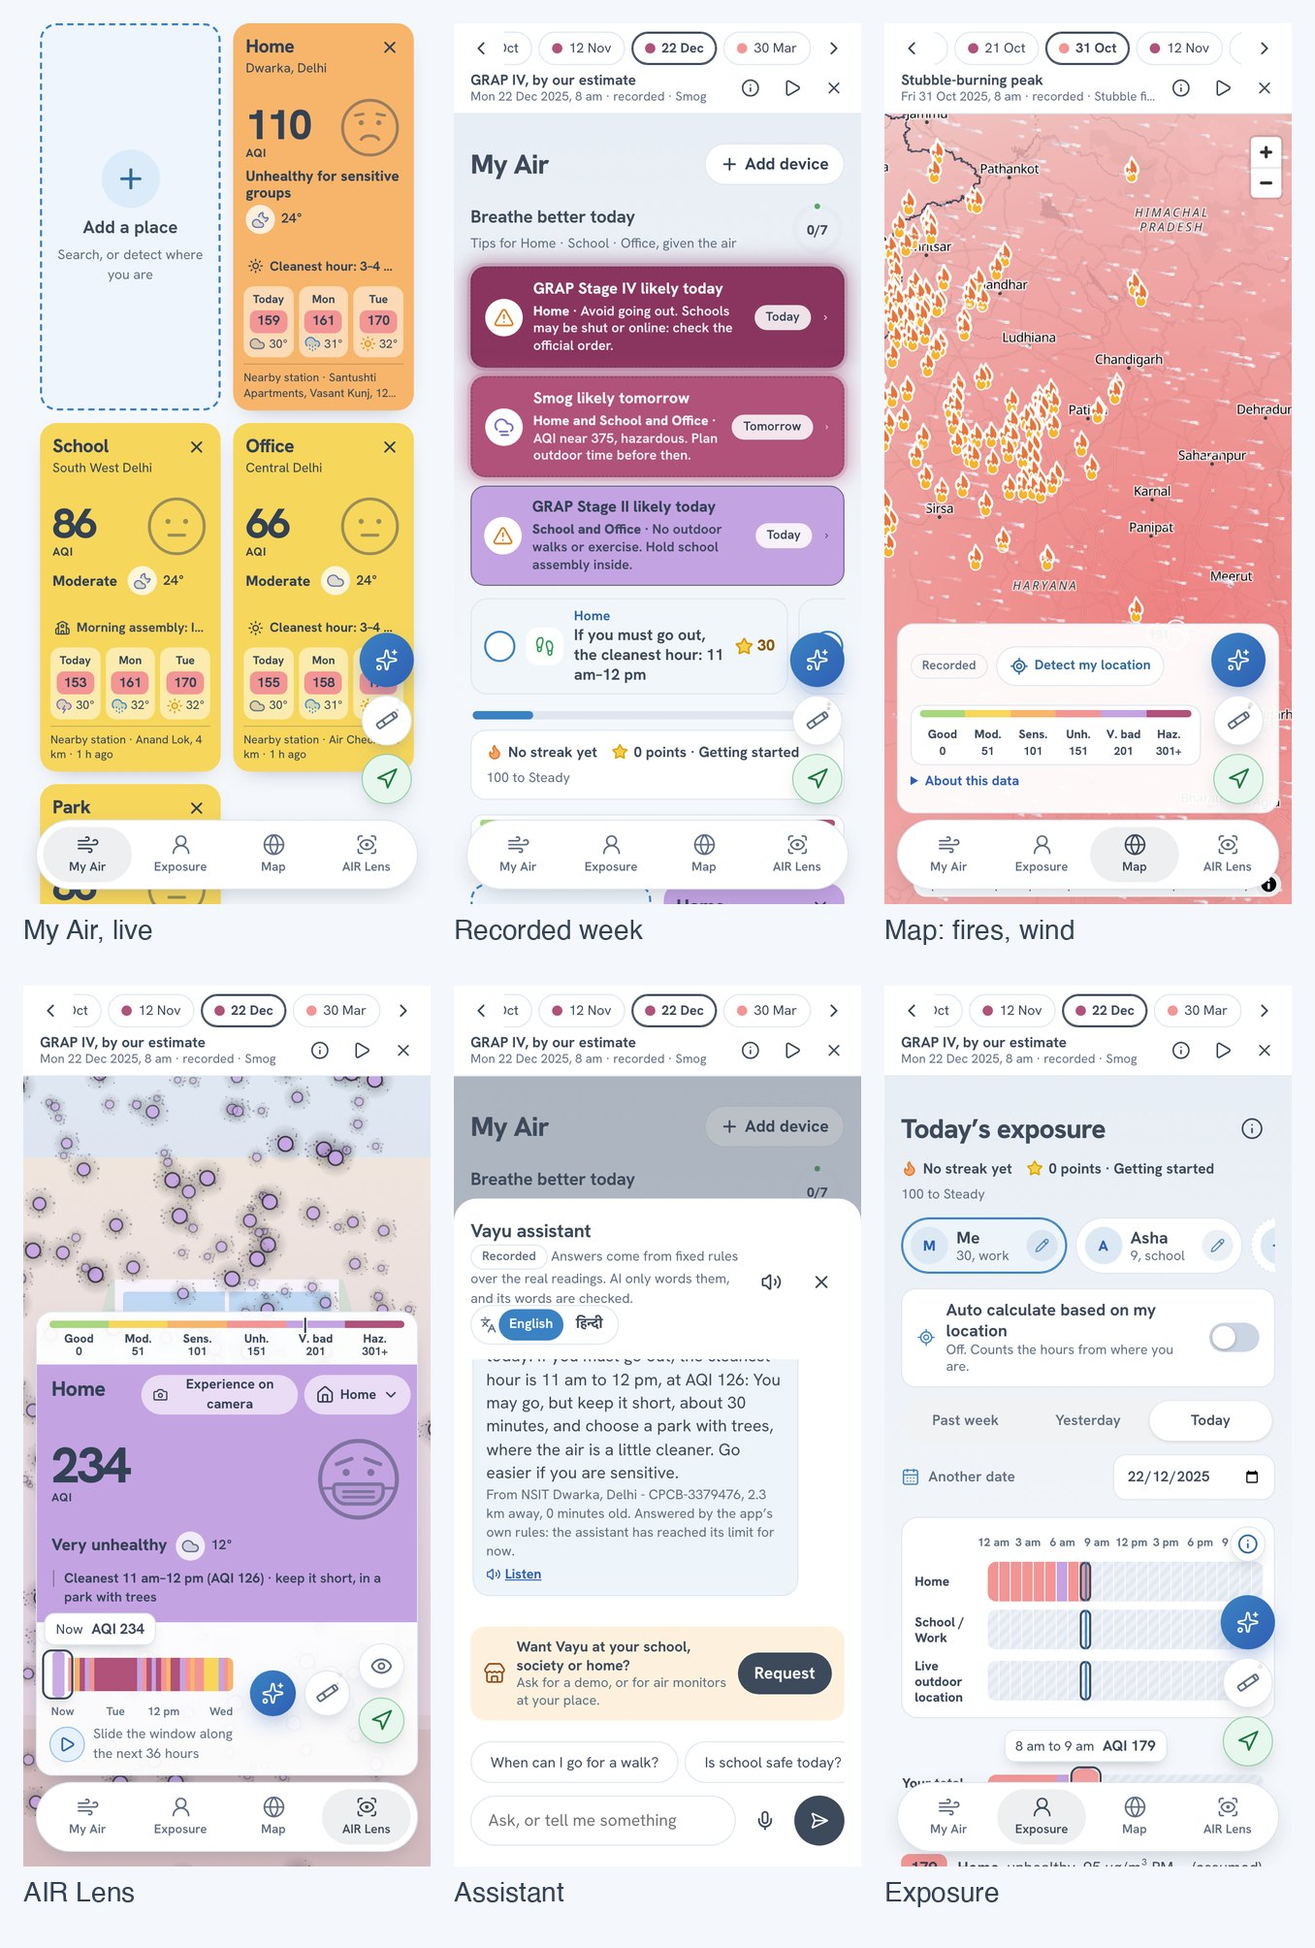
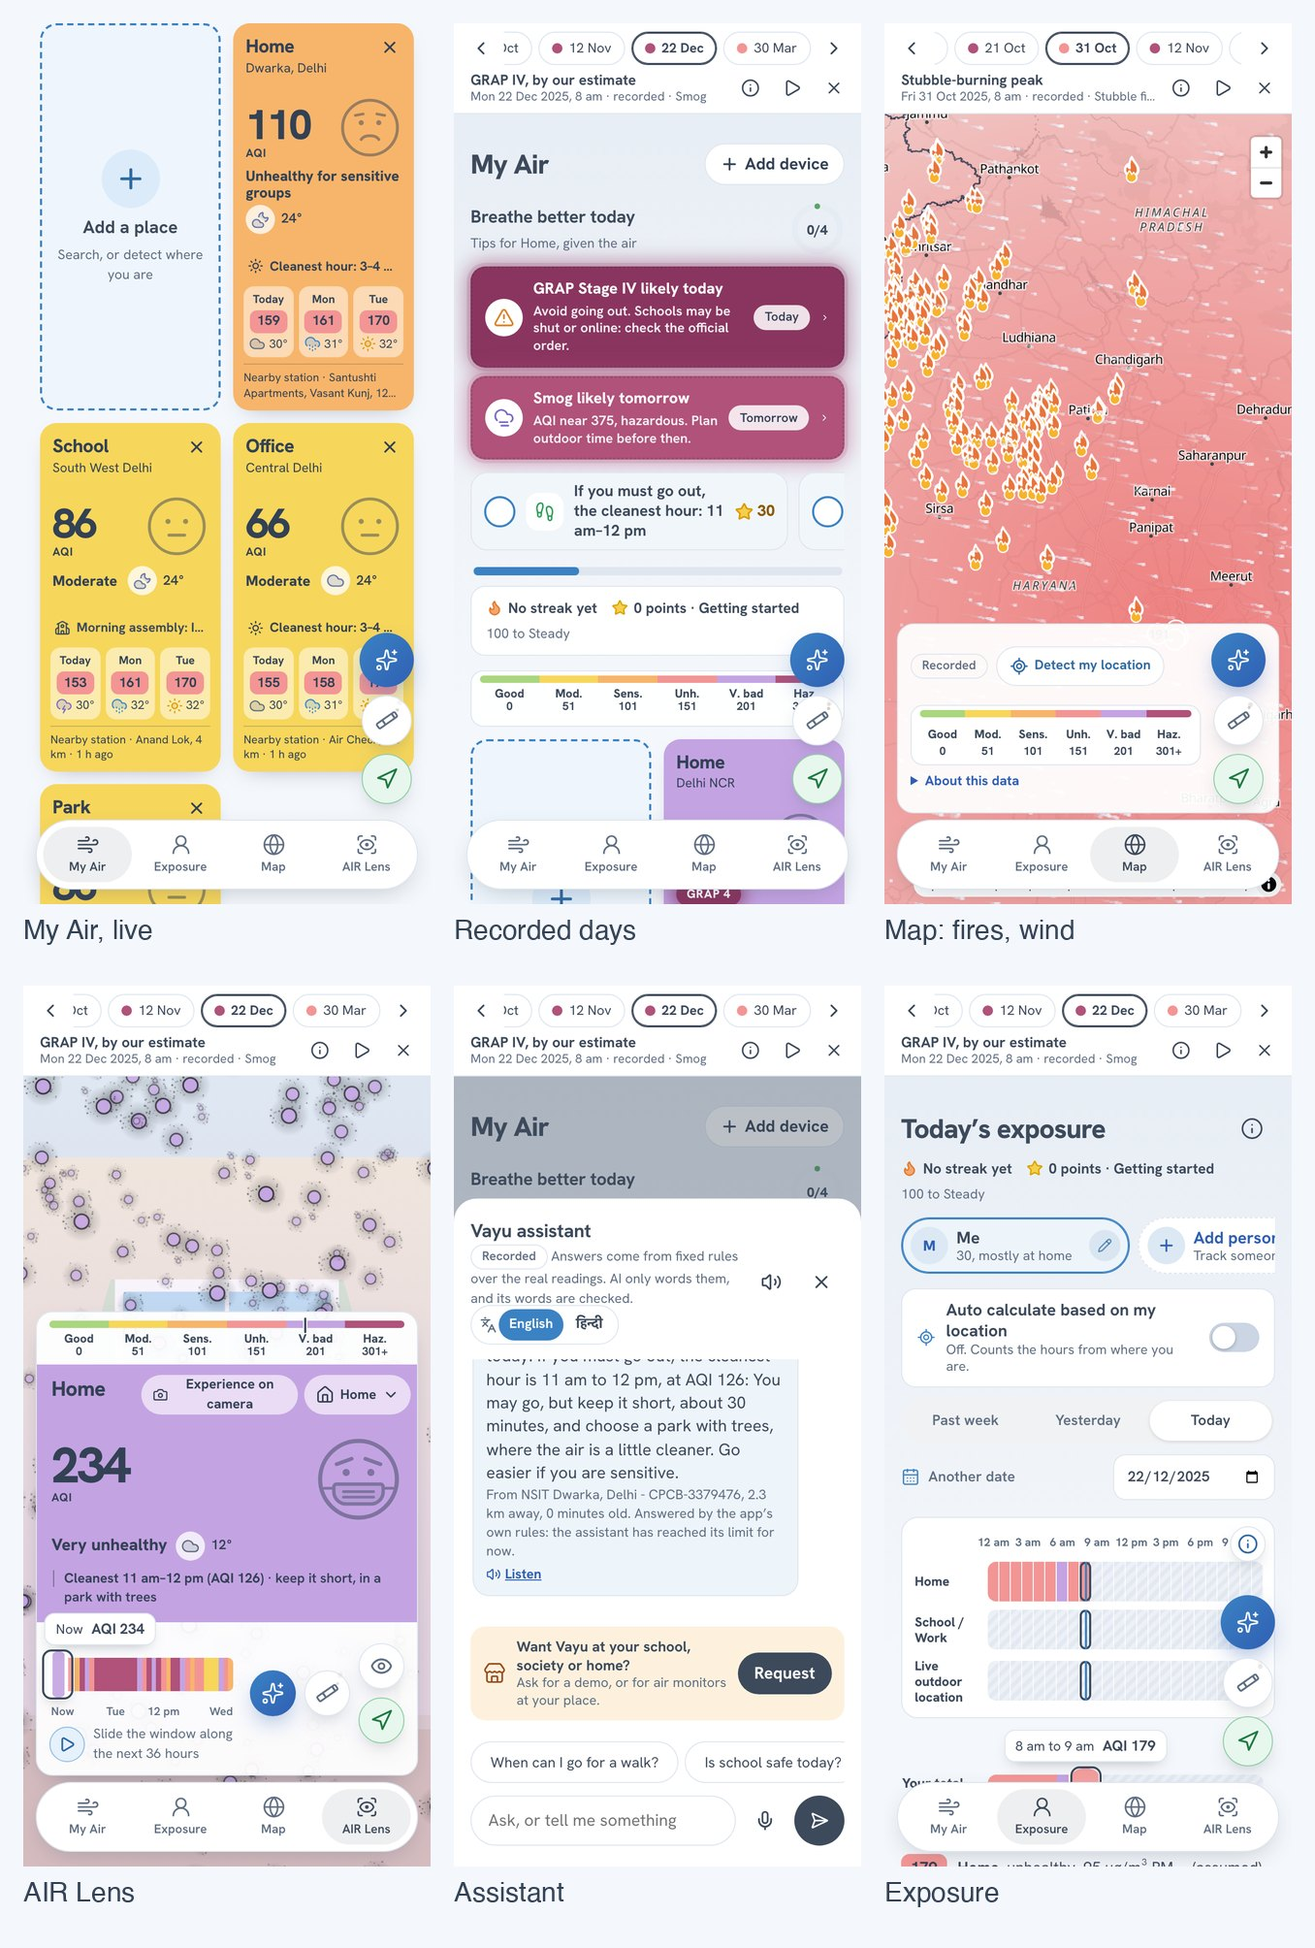
Recorded days: two places (Home and a Park) and one person, no school or office; called recorded days, not a week; screenshots retaken

diff --git a/apps/web/src/week/storage.ts b/apps/web/src/week/storage.ts
@@ -3,7 +3,7 @@ import { pinId, type Pin } from '../data/pins';
 import { saveHousehold, type Household } from '../exposure/people';
 import { sampleSpotsFor, saveSpots } from '../exposure/spots';
 
-/** A storage that lives only as long as the page: what the recorded week keeps, so the person's own data is untouched. */
+/** A storage that lives only as long as the page: what the recorded days keeps, so the person's own data is untouched. */
 export class MemoryStorage implements Storage {
   private readonly items = new Map<string, string>();
   get length(): number {
@@ -26,20 +26,22 @@ export class MemoryStorage implements Storage {
   }
 }
 
-/** The four places a household starts with in the recording: home, school, work and a park. */
-export const WEEK_PINS: readonly Pin[] = DEMO_PLACES.map((place) => ({
+/**
+ * The two places the recording starts with: home, and a park to walk in. No school and no office, so what each day
+ * shows is about the air itself: the GRAP stage, the fires, the rain, the wind, the best hour for a walk, the windows.
+ */
+export const WEEK_PINS: readonly Pin[] = DEMO_PLACES.filter(
+  (place) => place.name === 'Home' || place.name === 'Park',
+).map((place) => ({
   id: pinId(place.lat, place.lng),
   name: place.name,
   lat: place.lat,
   lng: place.lng,
 }));
 
-/** The household of the recording: the phone's owner, who works, and a child at school. */
+/** The household of the recording: one person, who is mostly at home. */
 export const WEEK_HOUSEHOLD: Household = {
-  people: [
-    { id: 'me', name: 'Me', age: 30, day: 'work' },
-    { id: 'asha', name: 'Asha', age: 9, day: 'school' },
-  ],
+  people: [{ id: 'me', name: 'Me', age: 30, day: 'none' }],
   current: 'me',
 };
 
@@ -52,7 +54,6 @@ export function installMemoryStorage(): Storage {
   const storage = new MemoryStorage();
   Object.defineProperty(window, 'localStorage', { value: storage, configurable: true });
   saveHousehold(storage, WEEK_HOUSEHOLD);
-  saveSpots(storage, 'me', sampleSpotsFor('adult'));
-  saveSpots(storage, 'asha', sampleSpotsFor('child'));
+  saveSpots(storage, 'me', sampleSpotsFor('senior'));
   return storage;
 }

diff --git a/apps/web/src/week/WeekBar.tsx b/apps/web/src/week/WeekBar.tsx
@@ -25,7 +25,7 @@ export function momentWords(day: RecordedDay): string {
 }
 
 /**
- * The strip above the app while the recorded week plays: which day it is, a chip for each day coloured by how the air
+ * The strip above the app while the recorded days plays: which day it is, a chip for each day coloured by how the air
  * was, play and stop, and the way out. What the recording is made of is one tap away.
  */
 export function WeekBar({
@@ -52,7 +52,7 @@ export function WeekBar({
   if (day === undefined) return <></>;
   const count = recorded.days.length;
   return (
-    <header className="week-bar" aria-label="Recorded week">
+    <header className="week-bar" aria-label="Recorded days">
       <div className="week-row">
         <button
           type="button"
@@ -131,7 +131,7 @@ export function WeekBar({
         <button
           type="button"
           className="week-step"
-          aria-label="Leave the recorded week"
+          aria-label="Leave the recorded days"
           onClick={onLeave}
         >
           <X size={18} aria-hidden="true" />
@@ -152,8 +152,8 @@ export function WeekBar({
           </ul>
           <p>
             The hours after the moment are what was recorded next, shown as a forecast would be.
-            GRAP stages are our own unofficial estimate, never the order. The places and people are
-            a sample household; anything you add lives only on this page.
+            GRAP stages are our own unofficial estimate, never the order. The two places and the
+            person are two sample places, Home and a Park; anything you add lives only on this page.
           </p>
         </div>
       )}

diff --git a/apps/web/src/week/storage.test.ts b/apps/web/src/week/storage.test.ts
@@ -16,14 +16,14 @@ describe('the recording’s own storage', () => {
     expect(s.length).toBe(0);
   });
 
-  it('replaces the browser’s storage and starts a household of two, leaving the person’s own data alone', () => {
+  it('replaces the browser’s storage and starts one person with two places, leaving the person’s own data alone', () => {
     window.localStorage.setItem(PINS_STORAGE_KEY, '[{"id":"x","name":"Mine","lat":1,"lng":2}]');
     const kept = window.localStorage;
     const memory = installMemoryStorage();
     expect(window.localStorage).toBe(memory);
     expect(window.localStorage.getItem(PINS_STORAGE_KEY)).toBeNull();
-    expect(loadHousehold(window.localStorage).people.map((p) => p.name)).toEqual(['Me', 'Asha']);
+    expect(loadHousehold(window.localStorage).people.map((p) => p.name)).toEqual(['Me']);
     expect(kept.getItem(PINS_STORAGE_KEY)).toContain('Mine');
-    expect(WEEK_PINS.map((p) => p.name)).toEqual(['Home', 'School', 'Office', 'Park']);
+    expect(WEEK_PINS.map((p) => p.name)).toEqual(['Home', 'Park']);
   });
 });

diff --git a/apps/web/src/today/ui/Attribution.tsx b/apps/web/src/today/ui/Attribution.tsx
@@ -16,7 +16,7 @@ const age = (minutes: number): string => {
  */
 export function Attribution({ data }: { readonly data: TodayData }): React.JSX.Element {
   const p = data.provenance;
-  // On a day of the recorded week the reading is real but not current, and the hours after it were recorded, not modelled.
+  // On a day of the recorded days the reading is real but not current, and the hours after it were recorded, not modelled.
   const recorded = weekActive();
   return (
     <section className="attribution" aria-label="Where this comes from">

diff --git a/apps/web/src/week/entry.tsx b/apps/web/src/week/entry.tsx
@@ -79,7 +79,7 @@ function WeekApp({ recorded }: { readonly recorded: Recorded }): React.JSX.Eleme
 }
 
 /**
- * The recorded week: the app, unchanged, run on seven real days from the archive instead of on the air of this minute.
+ * The recorded days: the app, unchanged, run on seven real days from the archive instead of on the air of this minute.
  * Opened by `#/week`. It is read-only and private: its places and people live in memory, and nothing it does is sent.
  */
 export async function startWeek(root: HTMLElement): Promise<void> {

diff --git a/apps/web/src/week/active.ts b/apps/web/src/week/active.ts
@@ -19,5 +19,5 @@ export function setWeekScene(next: WeekScene | undefined): void {
 /** The recorded day on screen, or undefined when the app is running on the real, current air. */
 export const weekScene = (): WeekScene | undefined => scene;
 
-/** Whether the app is playing the recorded week. Nothing then leaves the device: no report, no request is sent. */
+/** Whether the app is playing the recorded days. Nothing then leaves the device: no report, no request is sent. */
 export const weekActive = (): boolean => scene !== undefined;

diff --git a/apps/web/src/main.tsx b/apps/web/src/main.tsx
@@ -19,7 +19,7 @@ if (import.meta.env.VITE_DEMO === '1') {
     startDemo(root);
   });
 } else if (window.location.hash.startsWith('#/week')) {
-  // The recorded week: seven real days played through the same app, opened by an unlisted address.
+  // The recorded days: seven real days played through the same app, opened by an unlisted address.
   void import('./week/entry').then(({ startWeek }) => startWeek(root));
 } else {
   // The deployed app reads the real air from our API on AWS.

diff --git a/apps/web/src/week/WeekBar.test.tsx b/apps/web/src/week/WeekBar.test.tsx
@@ -42,7 +42,7 @@ describe('the week bar', () => {
     expect(onSelect).toHaveBeenLastCalledWith(4);
     fireEvent.click(screen.getByRole('button', { name: 'Play the week' }));
     expect(onPlay).toHaveBeenCalledWith(true);
-    fireEvent.click(screen.getByRole('button', { name: 'Leave the recorded week' }));
+    fireEvent.click(screen.getByRole('button', { name: 'Leave the recorded days' }));
     expect(onLeave).toHaveBeenCalled();
   });
 

diff --git a/apps/web/src/assistant/RequestForm.tsx b/apps/web/src/assistant/RequestForm.tsx
@@ -17,7 +17,7 @@ import {
   type Who,
 } from './requests';
 
-/** The deployed app sends to our API; the prototype, the tests and the recorded week keep it on the device. */
+/** The deployed app sends to our API; the prototype, the tests and the recorded days keep it on the device. */
 const requestUrl = (): string | undefined =>
   airStore().kind === 'live' && !weekActive() ? API_URL : undefined;
 

diff --git a/apps/web/src/week/types.ts b/apps/web/src/week/types.ts
@@ -1,5 +1,5 @@
 /**
- * The recorded week, as `scripts/record-week.mjs` writes it. Every series is hourly from India midnight of
+ * The recorded days, as `scripts/record-week.mjs` writes it. Every series is hourly from India midnight of
  * `seriesFrom`, `hours` long, with null where nothing was measured.
  */
 export interface RecordedStation {

diff --git a/apps/web/src/styles.css b/apps/web/src/styles.css
@@ -5757,7 +5757,7 @@ table.hourly .row-label {
   padding: 0 4px;
 }
 
-/* The recorded week: a strip above the app with the day, its chips, play and the way out */
+/* The recorded days: a strip above the app with the day, its chips, play and the way out */
 
 .week-bar {
   position: sticky;

diff --git a/README.md b/README.md
@@ -4,7 +4,7 @@
 
 > A parent in Delhi sees "AQI 162" for the city. Their child's school is kilometres from the nearest monitor, and the morning assembly is in the open. The app says which monitor the number came from, how far away it is and how old the reading is, what GRAP stage the last day points to (our estimate, never the order), and whether assembly should be inside.
 
-Live: **https://d3lmq1mze2gup3.cloudfront.net** (a phone or a laptop; no sign-in) · The recorded week: **https://d3lmq1mze2gup3.cloudfront.net/#/week** · Video: _to be added_ · Blog: [`docs/blog.md`](docs/blog.md) · Run it on your machine: `make local`
+Live: **https://d3lmq1mze2gup3.cloudfront.net** (a phone or a laptop; no sign-in) · The recorded days: **https://d3lmq1mze2gup3.cloudfront.net/#/week** · Video: _to be added_ · Blog: [`docs/blog.md`](docs/blog.md) · Run it on your machine: `make local`
 
 AWS Air track submission, 8 to 11 October 2026.
 
@@ -12,7 +12,7 @@ AWS Air track submission, 8 to 11 October 2026.
 
 Every number in the live app comes from a real source (OpenAQ monitors, Open-Meteo weather, forecast and wind, MET Norway wind as a second source, NASA FIRMS fires) through our own API on AWS. There is no demo mode and no made-up number in the deployed bundle; `make prove` fails if one gets in.
 
-**The recorded week is real too.** Open `/#/week` and the same app plays seven real days from last winter, one at a time, as if each were today at 8 am: 6 Oct 2025 (rain), 7 Oct (the clean day after), 21 Oct (after Diwali), 31 Oct (stubble fires), 12 Nov (smog), 22 Dec (GRAP Stage IV by our estimate) and 30 Mar 2026 (wind). The air comes from four Delhi monitors in OpenAQ's public archive, the weather from Open-Meteo's archive, the fires from NASA FIRMS. It is there so you can see every feature without waiting for a bad day, and the page says it is recorded. Cleaning is two rules, written in the file and counted (see [`docs/AS-BUILT.md`](docs/AS-BUILT.md)).
+**The recorded days is real too.** Open `/#/week` and the same app plays seven real days from last winter, one at a time, as if each were today at 8 am: 6 Oct 2025 (rain), 7 Oct (the clean day after), 21 Oct (after Diwali), 31 Oct (stubble fires), 12 Nov (smog), 22 Dec (GRAP Stage IV by our estimate) and 30 Mar 2026 (wind). The air comes from four Delhi monitors in OpenAQ's public archive, the weather from Open-Meteo's archive, the fires from NASA FIRMS. It is there so you can see every feature without waiting for a bad day, and the page says it is recorded. Cleaning is two rules, written in the file and counted (see [`docs/AS-BUILT.md`](docs/AS-BUILT.md)).
 
 The only made-up days in the repository are in the separate prototype build (`npm run build:demo`: device frames, scenarios, a simulated Bluetooth unit), which is never uploaded and is labelled "Sample data" wherever it shows a number.
 
@@ -35,7 +35,7 @@ The only made-up days in the repository are in the separate prototype build (`np
 | **Map**               | The air across the world: every monitor, wind, fires, and the colour between.                                                                                                                                                       |
 | **AIR Lens**          | Point a phone camera and see the air as particles, with a scene for each place; an eye button makes the card see-through.                                                                                                           |
 | **Assistant**         | Ask a question or tell it something ("Asha walked in the park for 40 minutes"), in English or Hindi, read aloud in either.                                                                                                          |
-| **The recorded week** | The whole app on seven real past days, labelled recorded.                                                                                                                                                                           |
+| **The recorded days** | The whole app on seven real past days, labelled recorded.                                                                                                                                                                           |
 
 Every number says whether it is **Live** (a named monitor, how far, how old), an **Estimate** (a regional model) or **Measured** (your own unit). Monitor readings older than six hours are not used, and nothing is advised from them.
 
@@ -67,7 +67,7 @@ The headline rule: **code decides and AI only words things.** If the model's ans
 
 | Part                                                  | State                                                                                                                                                                                                                                                                                                                                   |
 | ----------------------------------------------------- | --------------------------------------------------------------------------------------------------------------------------------------------------------------------------------------------------------------------------------------------------------------------------------------------------------------------------------------- |
-| The web app, the API, the stack, the recorded week    | Live, seen working                                                                                                                                                                                                                                                                                                                      |
+| The web app, the API, the stack, the recorded days    | Live, seen working                                                                                                                                                                                                                                                                                                                      |
 | The measuring unit (ESP32-S3 + SPS30, over Bluetooth) | Built and running: the board reads the sensor, and the live site connects, shows readings, and counts measured hours in Exposure                                                                                                                                                                                                        |
 | Accuracy of the unit                                  | **Not measured.** It has not been compared with a monitor over days. It is a low-cost sensor and is labelled that way                                                                                                                                                                                                                   |
 | Telegram alerts                                       | Built and tested against fakes; live scheduled sends are off; no in-app screen to link a chat                                                                                                                                                                                                                                           |
@@ -110,7 +110,7 @@ make local     # in another: the app on your machine, reading it
 | `make deploy-site`                | Build the app for the live address and upload it.                           |
 | `make smoke LIVE_URL=https://…`   | Check the data, the rules and the headers on a live address.                |
 | `npm run build:demo -w @vayu/web` | The separate prototype build (made-up days, device frames). Never uploaded. |
-| `node scripts/record-week.mjs`    | Remake the recorded week from the public archives (needs a NASA FIRMS key). |
+| `node scripts/record-week.mjs`    | Remake the recorded days from the public archives (needs a NASA FIRMS key). |
 
 The stack deploys with `cd infra && npx cdk deploy`. It needs three secrets made by hand first: `vayu/openaq-api-key`, `vayu/firms-map-key` and `vayu/telegram-bot-token`.
 
@@ -118,7 +118,7 @@ The stack deploys with `cd infra && npx cdk deploy`. It needs three secrets made
 
 | Path                 | What                                                                                                                                 |
 | -------------------- | ------------------------------------------------------------------------------------------------------------------------------------ |
-| `apps/web`           | The app (React, MapLibre). `src/air` is where real data enters; `src/week` is the recorded week; `src/devices` is the measuring unit |
+| `apps/web`           | The app (React, MapLibre). `src/air` is where real data enters; `src/week` is the recorded days; `src/devices` is the measuring unit |
 | `apps/api`           | The API Lambda, the stations Lambda and the routes                                                                                   |
 | `packages/contracts` | The shape of every request and answer (zod)                                                                                          |
 | `packages/core`      | The rules: air bands, timeline, windows, verdicts, the assistant's fixed answers (English and Hindi)                                 |
